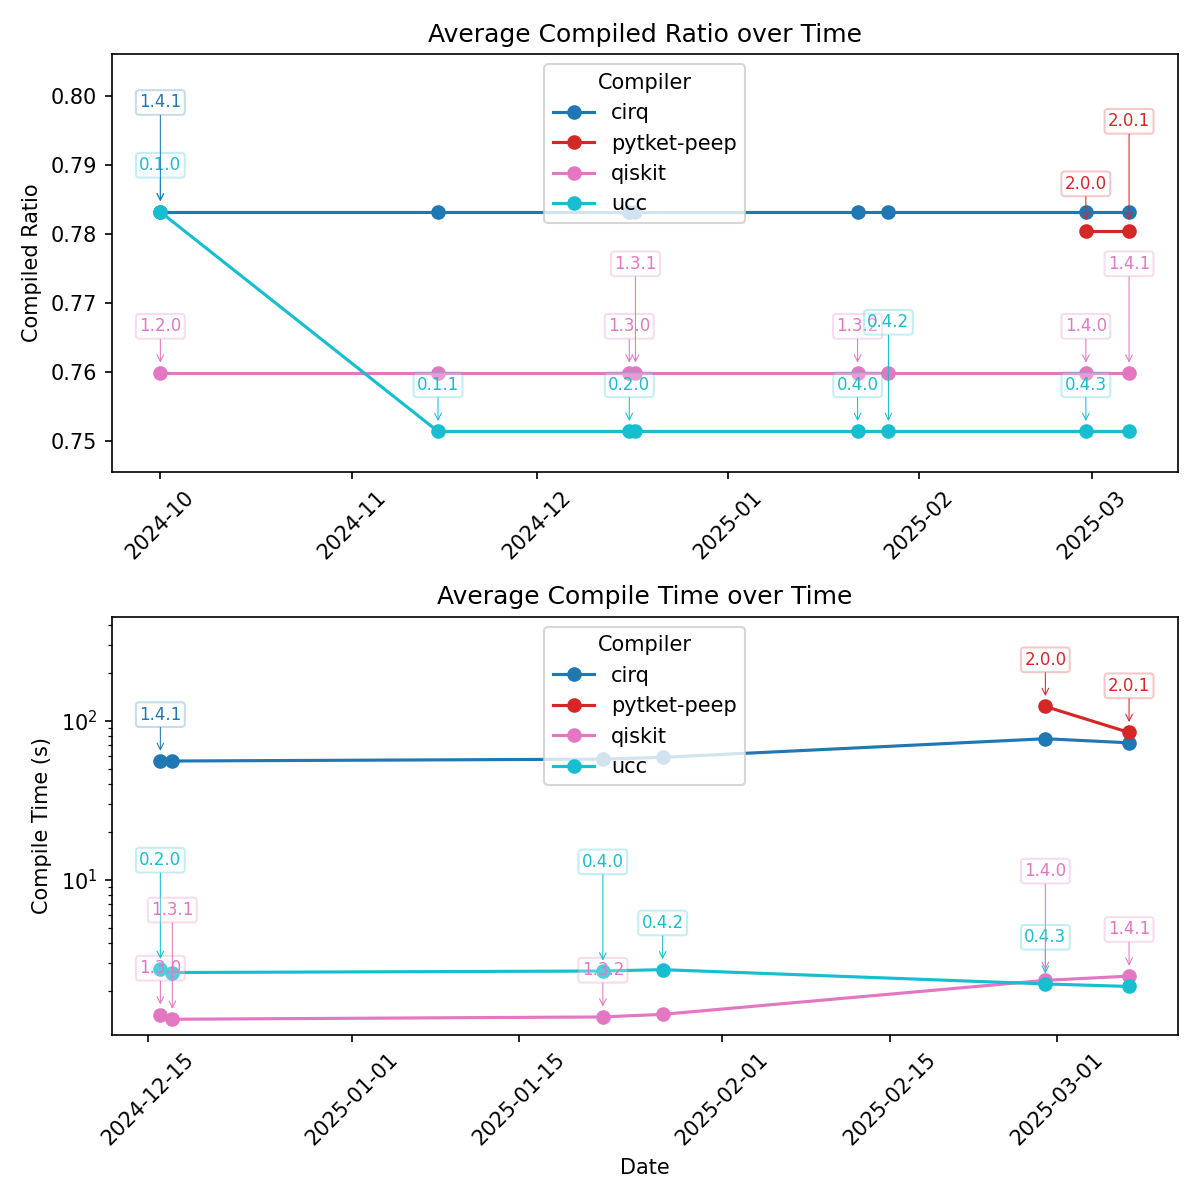
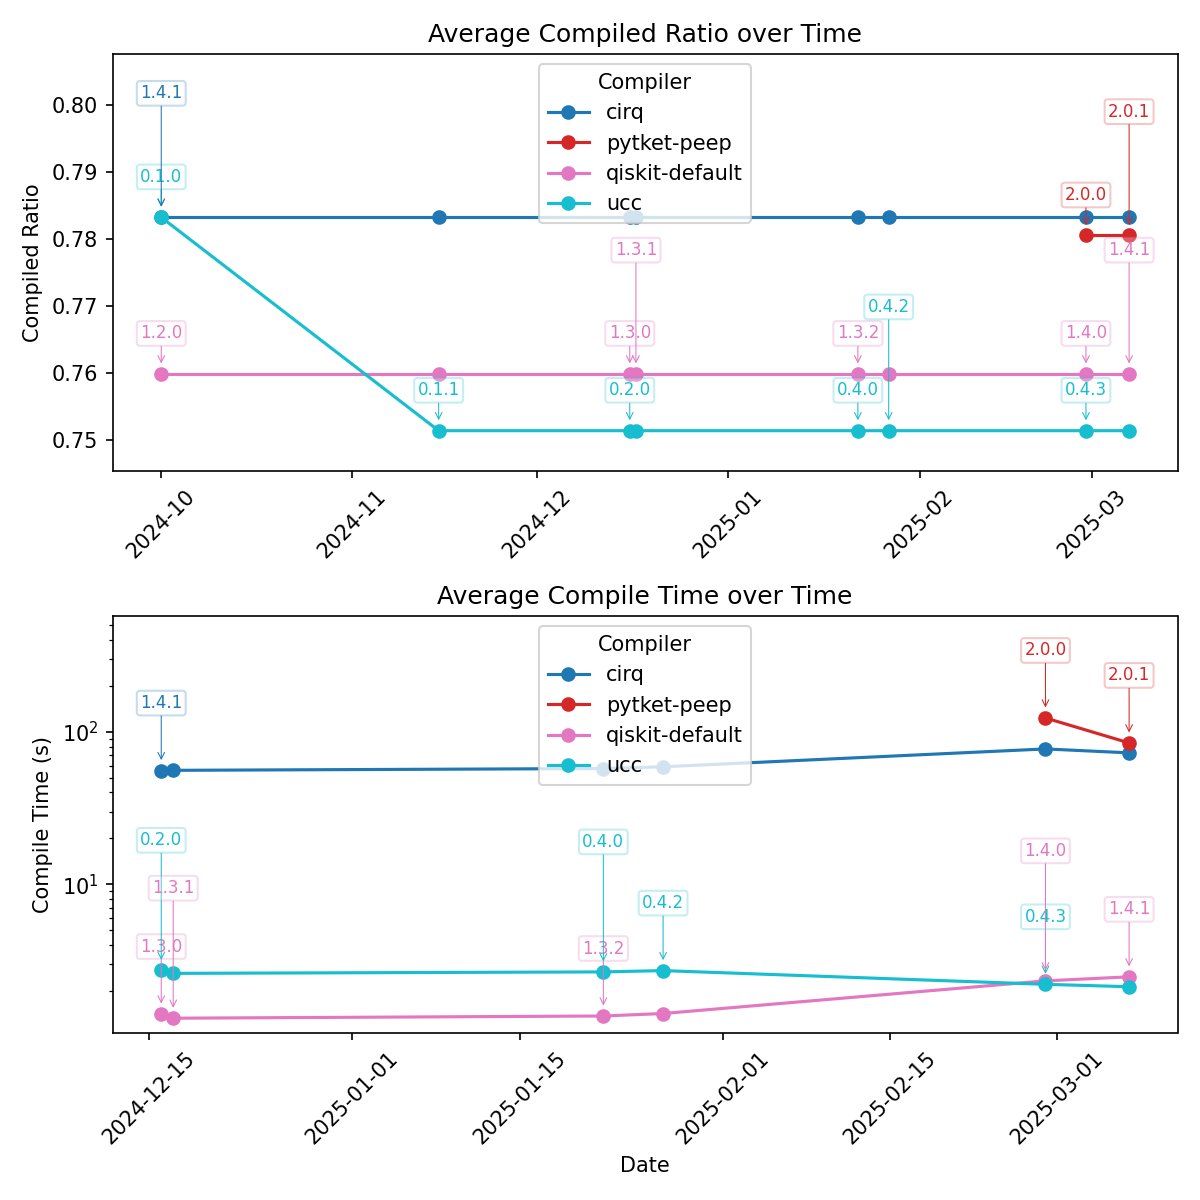
Switched to qiskit-default label, looks a bit crowded IMO (#300)

diff --git a/benchmarks/scripts/plot_avg_benchmarks_over_time.py b/benchmarks/scripts/plot_avg_benchmarks_over_time.py
@@ -36,6 +36,7 @@ for file in csv_files:
         # Remove pytket from compiler_versions for this datafile
         compiler_versions.pop("pytket")
     df["compiler_version"] = df["compiler"].map(compiler_versions)
+    df["compiler"] = df["compiler"].replace("qiskit", "qiskit-default")
     # Scrub semver string of any extraneous period at end
     df["compiler_version"] = df["compiler_version"].str.rstrip(".")
 
@@ -166,9 +167,9 @@ for date in avg_compiled_ratio["date"].unique():
                 xy=xy,
                 color=color,
                 previous_bboxes=previous_bboxes,
-                offset=(0, 20),  # Initial offset
+                offset=(0, 17),  # Initial offset
                 increment=2,  # Vertical adjustment step
-                max_attempts=15,
+                max_attempts=20,
             )
             # plt.pause(0.1)
             # Update the last seen version for this compiler
@@ -226,7 +227,7 @@ for date in avg_compile_time["date"].unique():
                 xy=xy,
                 color=color,
                 previous_bboxes=previous_bboxes,
-                offset=(0, 20),  # Initial offset
+                offset=(0, 30),  # Initial offset
                 increment=2,  # Vertical adjustment step
                 max_attempts=15,
             )
